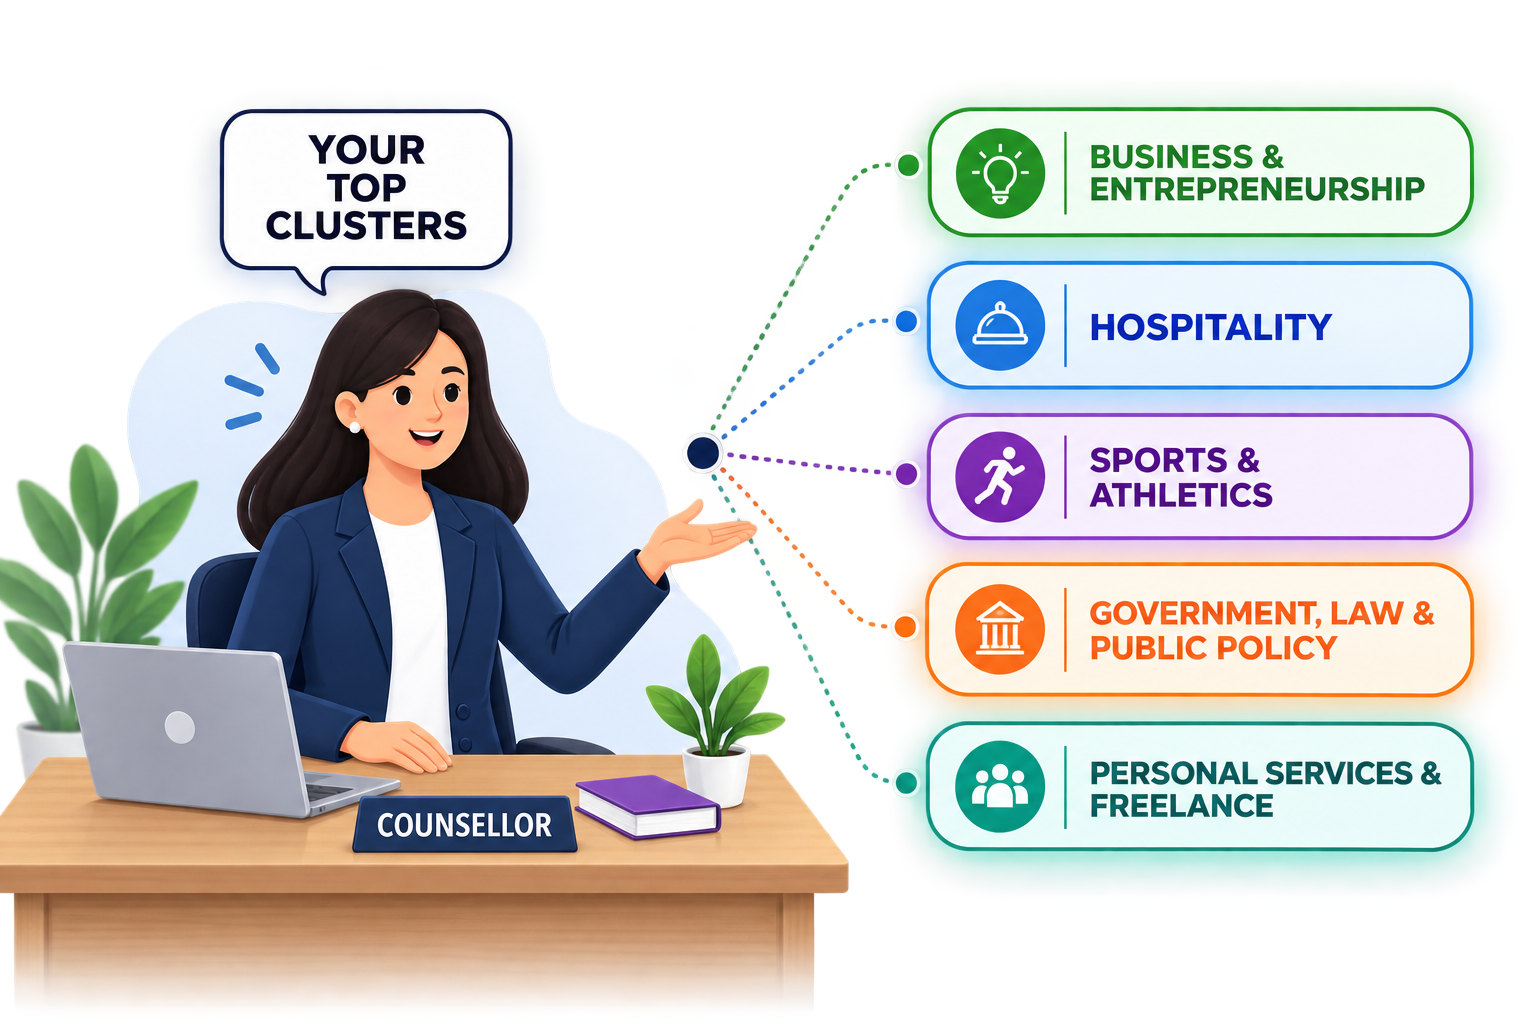
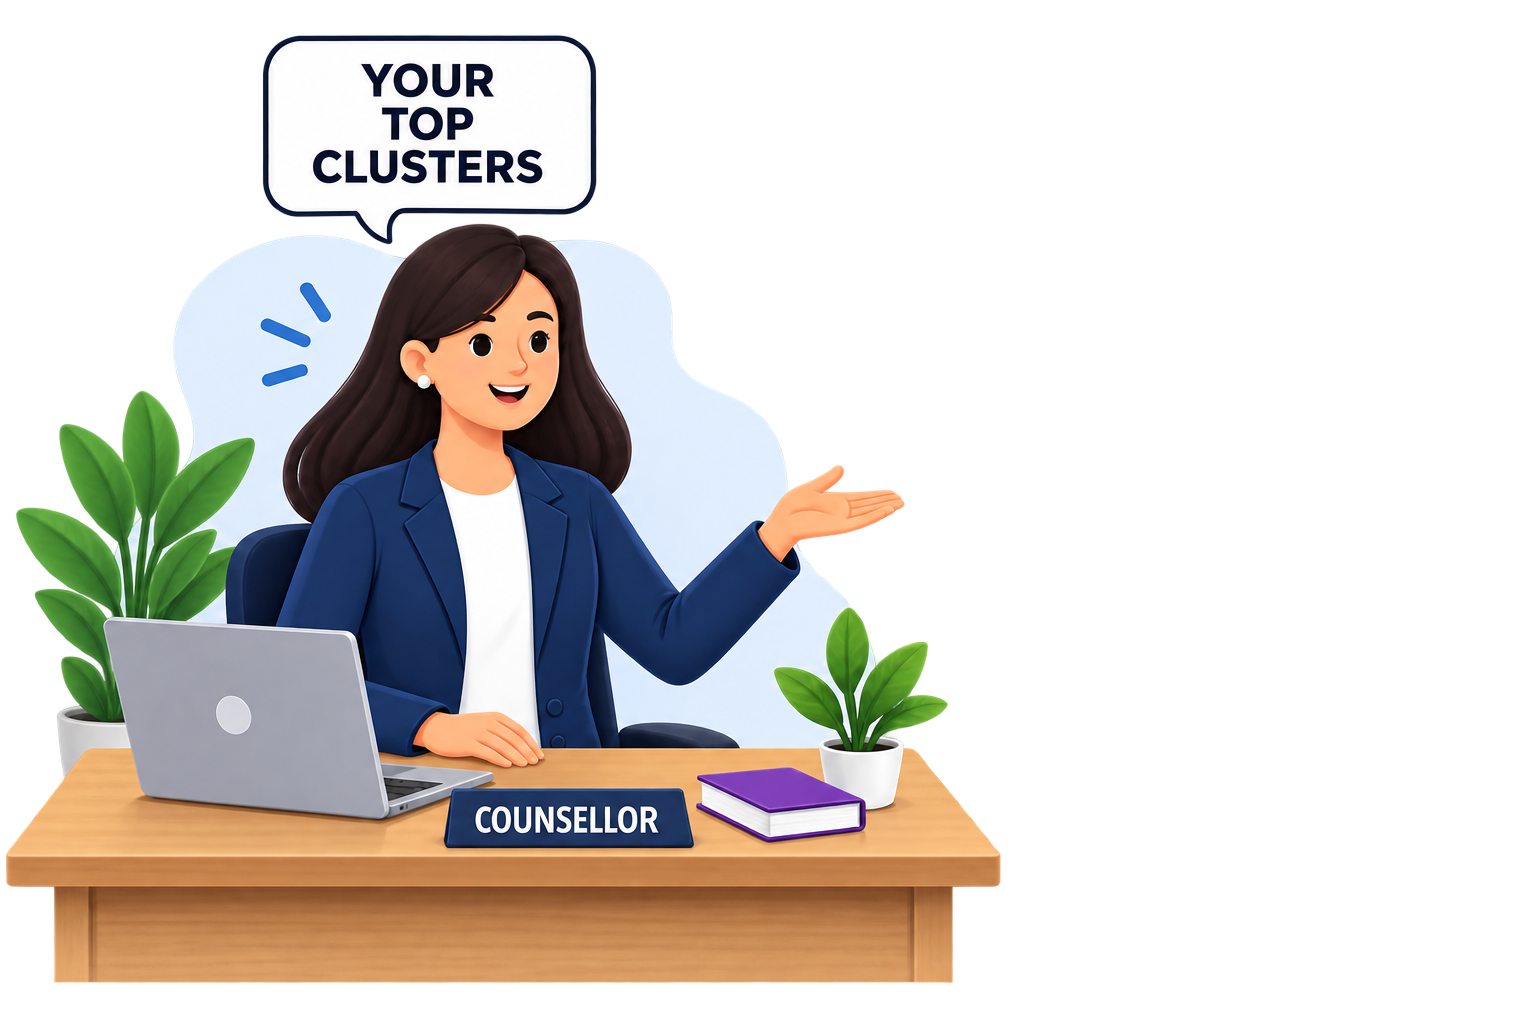
updated

diff --git a/src/features/assessment/pages/AssessmentReportPage.css b/src/features/assessment/pages/AssessmentReportPage.css
@@ -665,6 +665,127 @@ body {
 }
 
 /* Cluster Match Cards */
+.cluster-map {
+  --cluster-map-navy: #102a54;
+  position: relative;
+  display: flex;
+  align-items: center;
+  min-height: 260px;
+  max-width: 640px;
+  margin: 2px auto 10px;
+  overflow: visible;
+}
+
+.cluster-map-illustration {
+  width: 49%;
+  align-self: stretch;
+  display: flex;
+  align-items: flex-end;
+  position: relative;
+  z-index: 1;
+}
+
+.cluster-map-illustration img {
+  width: 100%;
+  max-height: 258px;
+  object-fit: contain;
+  object-position: left bottom;
+}
+
+.cluster-map-connectors {
+  position: absolute;
+  z-index: 2;
+  inset: 0;
+  width: 100%;
+  height: 100%;
+  overflow: visible;
+  pointer-events: none;
+}
+
+.cluster-map-connectors line {
+  stroke: #6c7890;
+  stroke-width: 0.42;
+  stroke-dasharray: 1.5 1.2;
+}
+
+.cluster-map-connectors circle {
+  fill: #17467f;
+  stroke: #e9f3ff;
+  stroke-width: 0.8;
+  vector-effect: non-scaling-stroke;
+  filter: drop-shadow(0 0 1px rgba(23, 70, 127, 0.35));
+}
+
+.cluster-map-labels {
+  position: relative;
+  z-index: 3;
+  width: 51%;
+  display: grid;
+  gap: 10px;
+  margin-left: auto;
+}
+
+.cluster-map-label {
+  --cluster-color: #4d95d7;
+  position: relative;
+  min-height: 39px;
+  display: flex;
+  align-items: center;
+  gap: 6px;
+  padding: 6px 10px 6px 8px;
+  border: 2px solid var(--cluster-color);
+  border-radius: 999px;
+  background: #fff;
+  color: var(--cluster-map-navy);
+  box-shadow: 0 2px 5px rgba(16, 42, 84, 0.1);
+  font-size: 0.63rem;
+  font-weight: 900;
+  line-height: 1.05;
+  letter-spacing: 0.015em;
+}
+
+.cluster-map-rank {
+  flex: 0 0 18px;
+  width: 18px;
+  height: 18px;
+  display: inline-flex;
+  align-items: center;
+  justify-content: center;
+  border-radius: 50%;
+  background: var(--cluster-color);
+  color: #fff;
+  font-size: 0.59rem;
+}
+
+.cluster-map-name {
+  flex: 1;
+  text-transform: uppercase;
+}
+
+.cluster-map-match {
+  color: var(--cluster-color);
+  font-size: 0.6rem;
+  white-space: nowrap;
+}
+
+@media (max-width: 560px) {
+  .cluster-map {
+    display: block;
+    min-height: 0;
+  }
+
+  .cluster-map-illustration {
+    width: 68%;
+    height: 190px;
+    margin: 0 auto -16px;
+  }
+
+  .cluster-map-illustration img { max-height: 190px; }
+  .cluster-map-connectors { display: none; }
+  .cluster-map-labels { width: 100%; gap: 7px; }
+  .cluster-map-label { font-size: 0.68rem; min-height: 36px; }
+}
+
 .cluster-match-card {
   border: 1px solid var(--cm-line);
   border-radius: 16px;

diff --git a/src/features/assessment/pages/AssessmentReportPage.jsx b/src/features/assessment/pages/AssessmentReportPage.jsx
@@ -386,7 +386,11 @@ export default function AssessmentReportPage() {
     },
   ];
 
-  const rawTop5 = report.careerClusters?.top5 || rawData.top5Clusters || [];
+  const rawTop5 =
+    report.careerClusters?.top5 ||
+    rawData.careerClusters?.top5 ||
+    rawData.top5Clusters ||
+    [];
 
   const clusterMap = (CLUSTERS || []).reduce((acc, c) => {
     acc[c.cluster_id] = c;
@@ -1695,13 +1699,35 @@ export default function AssessmentReportPage() {
               Each card shows what the field involves, why it suits you, how to get there, and list of careers
             </p>
 
-            {/* Counsellor + 5 Clusters Graphic matching PDF Page 26 */}
-            <div className="my-1 flex justify-center items-center">
-              <img
-                src={ReportImg7}
-                alt="Top Clusters Map"
-                className="max-h-[260px] w-full max-w-[500px] mx-auto object-contain drop-shadow-sm"
-              />
+            {/* Dynamic counsellor + top-five cluster map */}
+            <div className="cluster-map" aria-label="Your five top career clusters">
+              <div className="cluster-map-illustration">
+                <img src={ReportImg7} alt="Career counsellor" />
+              </div>
+              <svg
+                className="cluster-map-connectors"
+                viewBox="0 0 100 100"
+                preserveAspectRatio="none"
+                aria-hidden="true"
+              >
+                {[9, 29.5, 50, 70.5, 91].map((endY) => (
+                  <line key={endY} x1="39" y1="50" x2="49" y2={endY} />
+                ))}
+                <circle cx="39" cy="50" r="1.35" />
+              </svg>
+              <div className="cluster-map-labels">
+                {top5Clusters.slice(0, 5).map((cluster, index) => (
+                  <div
+                    className={`cluster-map-label cluster-map-label-${index + 1}`}
+                    key={`${cluster.code}-${index}`}
+                    style={{ "--cluster-color": ["#70b86b", "#4d95d7", "#9a76ca", "#dc984f", "#47b9b9"][index] }}
+                  >
+                    <span className="cluster-map-rank">{index + 1}</span>
+                    <span className="cluster-map-name">{cluster.name}</span>
+                    <span className="cluster-map-match">{cluster.matchPercentage}%</span>
+                  </div>
+                ))}
+              </div>
             </div>
 
             {/* Top 1 Cluster Card */}
